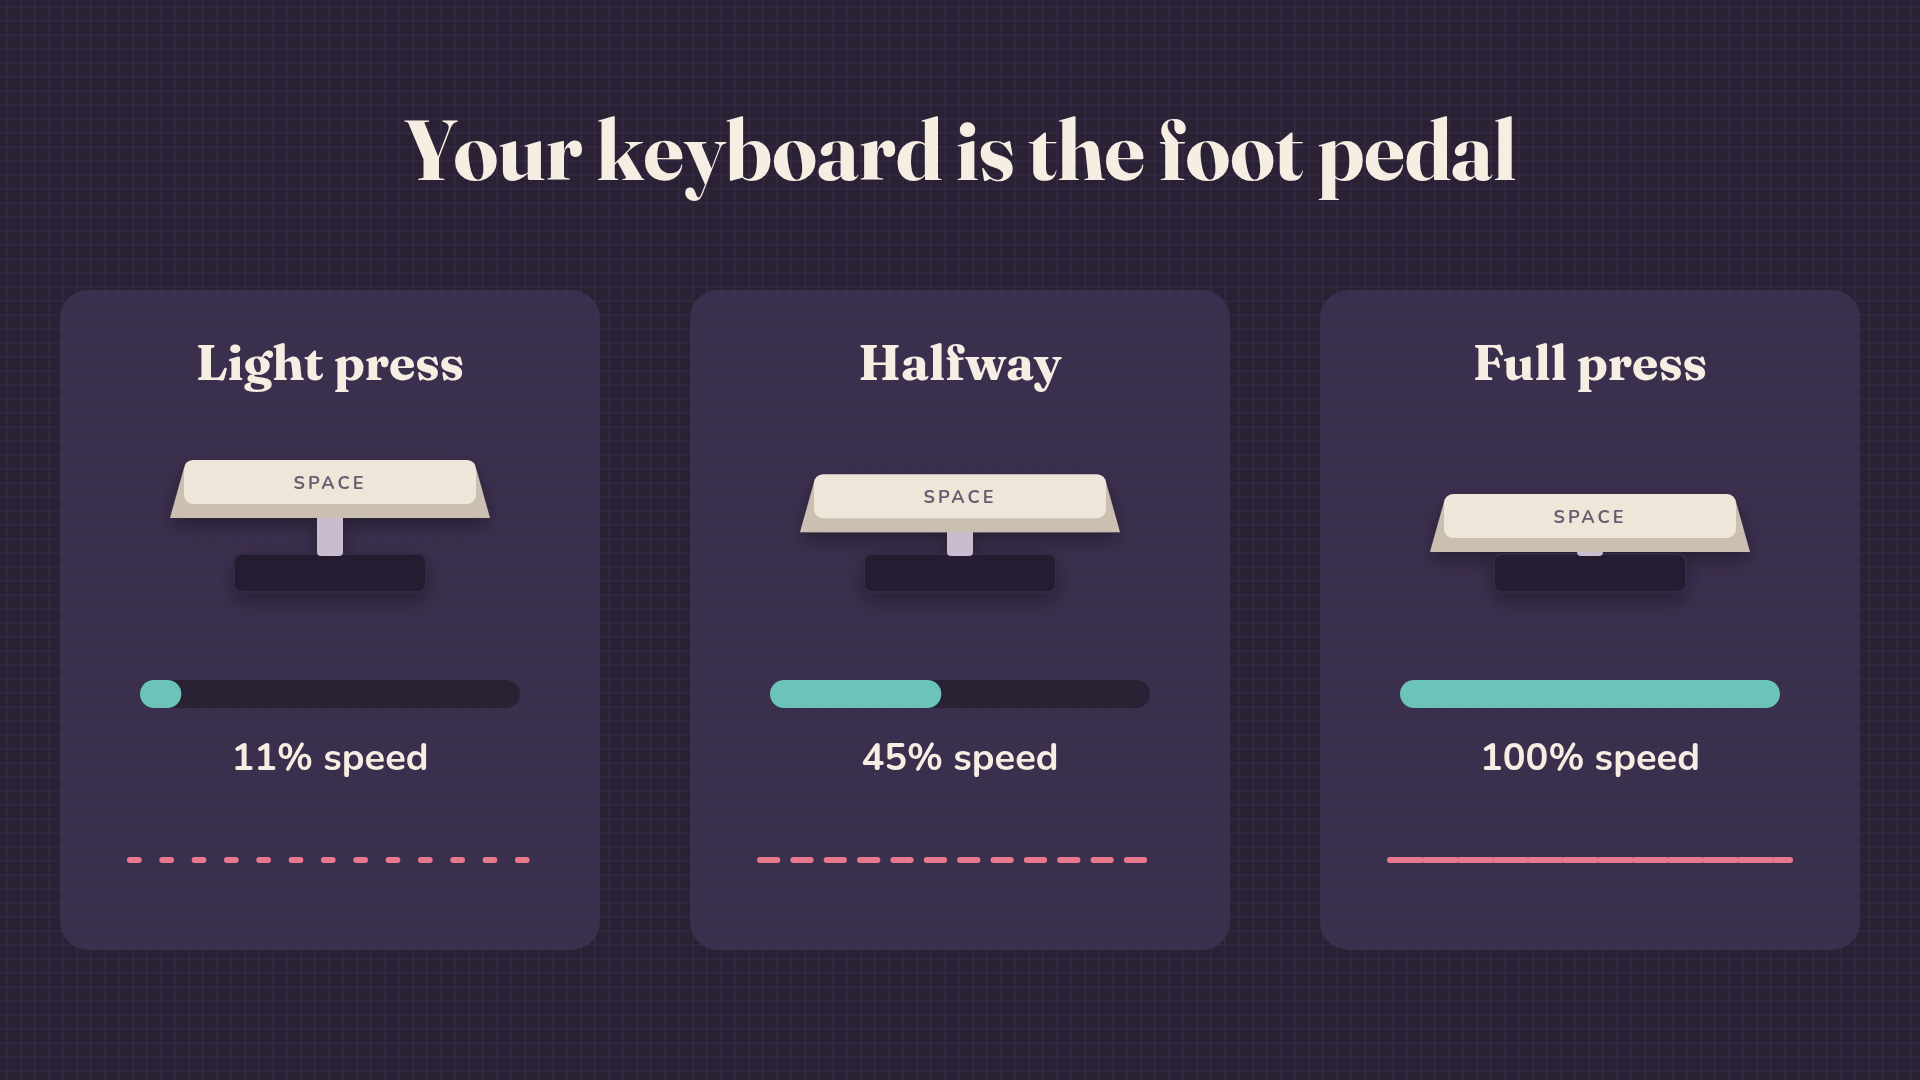
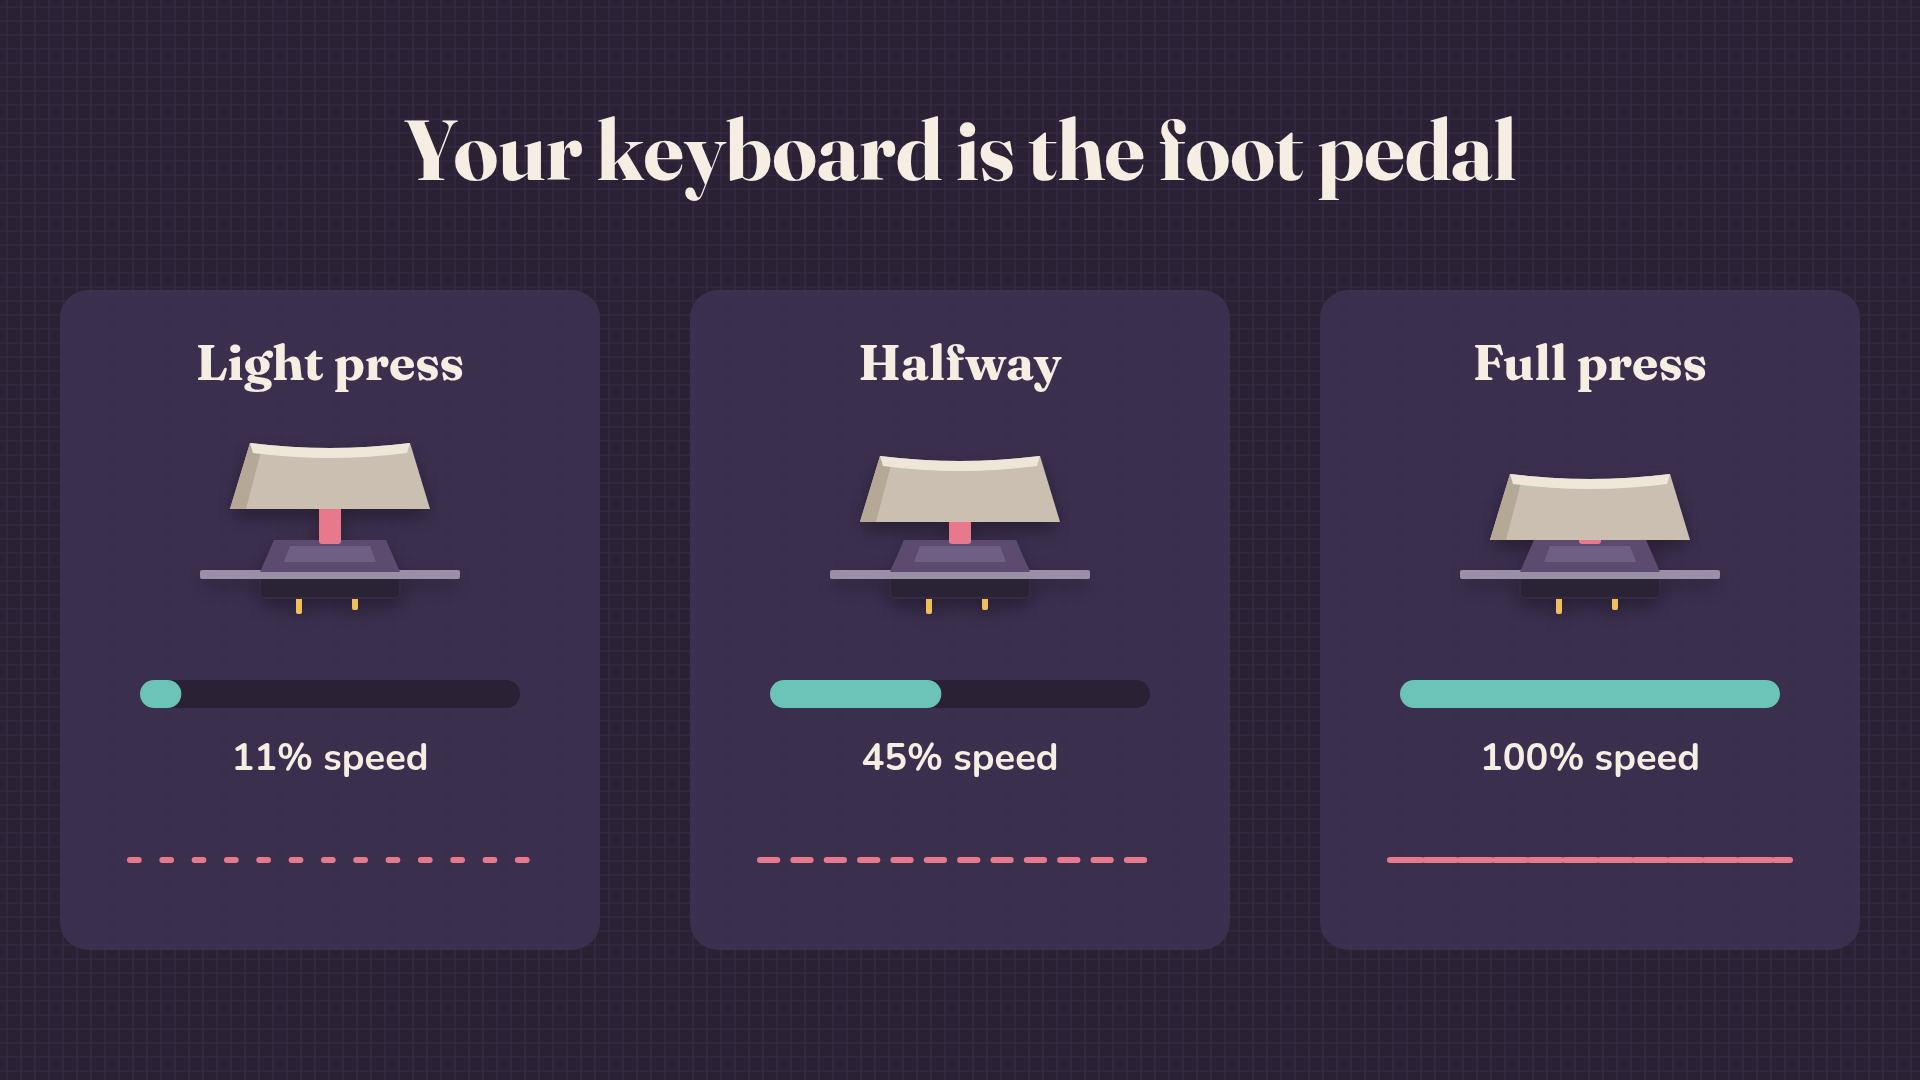
Draw a keycap and switch in the images, trim text, drop install image

Changed region(s): [[0.4062, 0.4278, 0.5938, 0.55], [0.0938, 0.3972, 0.25, 0.55], [0.75, 0.4278, 0.9062, 0.55]]

diff --git a/docs/media/make_media.py b/docs/media/make_media.py
@@ -61,30 +61,41 @@ def stitches(x0, y0, x1, y1, color=ROSE, dash=(18, 12), width=5):
             f'stroke-linecap="round" stroke-dasharray="{dash[0]} {dash[1]}"/>')
 
 
-def keycap(x, y, w, depth_px, label="SPACE"):
-    """Side-on keycap on a stem above a switch housing; depth_px (0..44) pushes the cap down."""
-    cap_y = y + depth_px
-    housing_y = y + 104
+TRAVEL_PX = 40  # drawn key travel for TRAVEL_MM
+
+
+def switch_key(cx, top_y, depth_px):
+    """Side view of a 1u keycap on a mechanical switch in a plate, centred on cx.
+
+    top_y is the top of the keycap at rest; depth_px (0..TRAVEL_PX) pushes the cap and stem down.
+    The drawing is 190px tall.
+    """
+    cap_y = top_y + depth_px
+    hy = top_y + 70 + TRAVEL_PX  # top of the switch housing
     return f"""
   <g filter="url(#shadow)">
-    <rect x="{x + w*0.2}" y="{housing_y}" width="{w*0.6}" height="38" rx="8" fill="#251d30" stroke="{BG2}" stroke-width="2"/>
-    <rect x="{x + w/2 - 13}" y="{cap_y + 50}" width="26" height="{housing_y - cap_y - 48}" rx="4" fill="{MUTED}"/>
-    <path d="M{x} {cap_y + 58} L{x + 14} {cap_y + 8} H{x + w - 14} L{x + w} {cap_y + 58} Z" fill="{KEY_SIDE}"/>
-    <rect x="{x + 14}" y="{cap_y}" width="{w - 28}" height="44" rx="9" fill="{KEY}"/>
-    <text x="{x + w/2}" y="{cap_y + 29}" text-anchor="middle" class="body" style="fill:#6b5d70;font-size:18px;letter-spacing:3px">{label}</text>
+    <rect x="{cx - 34}" y="{hy + 54}" width="6" height="20" rx="2" fill="{MUSTARD}"/>
+    <rect x="{cx + 22}" y="{hy + 54}" width="6" height="16" rx="2" fill="{MUSTARD}"/>
+    <rect x="{cx - 70}" y="{hy + 30}" width="140" height="28" rx="5" fill="#2a2236" stroke="{BG2}" stroke-width="2"/>
+    <rect x="{cx - 130}" y="{hy + 30}" width="260" height="9" rx="2" fill="#9a8fa6"/>
+    <path d="M{cx - 56} {hy} H{cx + 56} L{cx + 70} {hy + 32} H{cx - 70} Z" fill="#5b4c6e"/>
+    <path d="M{cx - 40} {hy + 6} H{cx + 40} L{cx + 46} {hy + 22} H{cx - 46} Z" fill="#6f5f84"/>
+    <rect x="{cx - 11}" y="{cap_y + 62}" width="22" height="{hy - cap_y - 58}" rx="3" fill="{ROSE}"/>
+    <path d="M{cx - 100} {cap_y + 70} L{cx - 80} {cap_y + 4} Q{cx} {cap_y + 14} {cx + 80} {cap_y + 4} L{cx + 100} {cap_y + 70} Z" fill="{KEY_SIDE}"/>
+    <path d="M{cx - 100} {cap_y + 70} L{cx - 80} {cap_y + 4} L{cx - 68} {cap_y + 9} L{cx - 84} {cap_y + 70} Z" fill="#b5a897"/>
+    <path d="M{cx - 80} {cap_y + 4} Q{cx} {cap_y + 14} {cx + 80} {cap_y + 4} L{cx + 77} {cap_y + 14} Q{cx} {cap_y + 24} {cx - 77} {cap_y + 14} Z" fill="{KEY}"/>
   </g>"""
 
 
 def header():
     w, h = 1300, 372
+    key_cx = 1000  # centred over the slow-to-fast stitches (760..1240)
     body = f"""
-  <text x="70" y="150" class="title" style="font-size:86px">Analog Sewing</text>
-  <text x="74" y="208" class="sub" style="font-size:30px;fill:{CREAM}">Press lightly to sew slowly.</text>
-  <text x="74" y="250" class="sub" style="font-size:30px;fill:{CREAM}">Press harder to sew faster.</text>
-  <text x="74" y="306" class="sub" style="font-size:21px">A Dressmaker mod for Wooting analog keyboards</text>
-  {keycap(790, 112, 330, 22)}
-  <path d="M955 46 V92" stroke="{MUSTARD}" stroke-width="6" stroke-linecap="round"/>
-  <path d="M937 76 L955 96 L973 76" stroke="{MUSTARD}" stroke-width="6" fill="none" stroke-linecap="round" stroke-linejoin="round"/>
+  <text x="70" y="182" class="title" style="font-size:92px">Analog Sewing</text>
+  <text x="76" y="236" class="sub" style="font-size:26px">A Dressmaker mod for Wooting analog keyboards</text>
+  <path d="M{key_cx} 18 V62" stroke="{MUSTARD}" stroke-width="6" stroke-linecap="round"/>
+  <path d="M{key_cx - 18} 46 L{key_cx} 66 L{key_cx + 18} 46" stroke="{MUSTARD}" stroke-width="6" fill="none" stroke-linecap="round" stroke-linejoin="round"/>
+  {switch_key(key_cx, 82, 12)}
   {stitches(760, 318, 870, 318, dash=(6, 22))}
   {stitches(890, 318, 1010, 318, dash=(12, 14))}
   {stitches(1030, 318, 1240, 318, dash=(26, 6))}
@@ -100,13 +111,13 @@ def pedal():
     for i, (name, mm) in enumerate([("Light press", 0.9), ("Halfway", 2.2), ("Full press", 4.0)]):
         cx = 330 + i * 630
         pct = speed(mm)
-        depth_px = mm / TRAVEL_MM * 44
+        depth_px = mm / TRAVEL_MM * TRAVEL_PX
         gauge_w = 380
         dash = (6 + pct * 0.25, max(26 - pct * 0.22, 4))
         panels.append(f"""
   <rect x="{cx - 270}" y="290" width="540" height="660" rx="28" fill="{CARD}" opacity="0.92"/>
   <text x="{cx}" y="380" text-anchor="middle" class="title" style="font-size:50px">{name}</text>
-  {keycap(cx - 160, 450, 320, depth_px)}
+  {switch_key(cx, 430, depth_px)}
   <rect x="{cx - gauge_w/2}" y="680" width="{gauge_w}" height="28" rx="14" fill="{BG}"/>
   <rect x="{cx - gauge_w/2}" y="680" width="{gauge_w * pct / 100:.1f}" height="28" rx="14" fill="{TEAL}"/>
   <text x="{cx}" y="770" text-anchor="middle" class="body" style="font-size:38px">{pct:.0f}% speed</text>
@@ -146,12 +157,11 @@ def curve():
 
     lx, ly = gx + 40, gy + 30  # legend, in the empty upper-left of the plot
 
-    def setting(row, key, value, desc, color):
-        y = ly + 70 + row * 82
+    def setting(row, key, value, color):
+        y = ly + 82 + row * 56
         return f"""
   <circle cx="{lx + 34}" cy="{y - 9}" r="11" fill="{color}"/>
-  <text x="{lx + 60}" y="{y}" class="mono" style="font-size:29px">{key} = <tspan style="fill:{color}">{value}</tspan></text>
-  <text x="{lx + 60}" y="{y + 34}" class="sub" style="font-size:24px">{desc}</text>"""
+  <text x="{lx + 60}" y="{y}" class="mono" style="font-size:29px">{key} = <tspan style="fill:{color}">{value}</tspan></text>"""
 
     body = f"""
   <rect x="40" y="30" width="1840" height="1020" rx="32" fill="{CARD}" opacity="0.92"/>
@@ -168,43 +178,13 @@ def curve():
   <line x1="{px(FULL_MM)}" y1="{gy}" x2="{px(FULL_MM)}" y2="{gy + gh}" stroke="{MUSTARD}" stroke-width="3" stroke-dasharray="8 8"/>
   <circle cx="{px(START_MM)}" cy="{py(MIN_PCT)}" r="13" fill="{ROSE}"/>
   <circle cx="{px(FULL_MM)}" cy="{py(MAX_PCT)}" r="13" fill="{MUSTARD}"/>
-  <rect x="{lx}" y="{ly}" width="560" height="460" rx="22" fill="{BG}" opacity="0.92" stroke="{BG2}" stroke-width="2"/>
+  <rect x="{lx}" y="{ly}" width="500" height="340" rx="22" fill="{BG}" opacity="0.92" stroke="{BG2}" stroke-width="2"/>
   <text x="{lx + 34}" y="{ly + 2 + 28}" class="sub" style="font-size:22px;letter-spacing:2px">DEFAULT SETTINGS</text>
-  {setting(0, "StartDepthMm", START_MM, "Press this far to start sewing", ROSE)}
-  {setting(1, "FullSpeedDepthMm", FULL_MM, "Press this far for full speed", MUSTARD)}
-  {setting(2, "MinSpeedPercent", MIN_PCT, "Speed when sewing starts", ROSE)}
-  {setting(3, "MaxSpeedPercent", MAX_PCT, "Top speed", MUSTARD)}
-  {setting(4, "Curve", CURVE, "Higher = finer control when slow", TEAL)}
-"""
-    return svg(w, h, body)
-
-
-def install():
-    w, h = 1920, 1080
-    steps = [
-        ("1", "Install BepInEx 5", ["Extract BepInEx 5 (x64) into", "the Dressmaker folder, next", "to Dressmaker.exe"], ROSE),
-        ("2", "Add Analog Sewing", ["Extract this mod into the", "same folder. Wooting's", "Analog SDK is included."], MUSTARD),
-        ("3", "Sew!", ["Launch the game and press", "Space gently, then harder.", "No other setup needed."], TEAL),
-    ]
-    cards = []
-    for i, (num, title, lines, color) in enumerate(steps):
-        x = 150 + i * 560
-        text = "".join(
-            f'<text x="{x + 50}" y="{620 + j * 50}" class="sub" style="font-size:31px;fill:{CREAM}">{line}</text>'
-            for j, line in enumerate(lines))
-        cards.append(f"""
-  <rect x="{x}" y="300" width="500" height="520" rx="28" fill="{CARD}" opacity="0.92"/>
-  <circle cx="{x + 110}" cy="420" r="62" fill="{color}"/>
-  <text x="{x + 110}" y="446" text-anchor="middle" class="title" style="font-size:72px;fill:{BG}">{num}</text>
-  <text x="{x + 50}" y="555" class="title" style="font-size:46px">{title}</text>
-  {text}""")
-    body = f"""
-  <text x="960" y="160" text-anchor="middle" class="title" style="font-size:80px">Install in 3 steps</text>
-  <text x="960" y="228" text-anchor="middle" class="sub" style="font-size:32px">Works on Windows and on Linux / Steam Deck through Proton</text>
-  {''.join(cards)}
-  <rect x="380" y="880" width="1160" height="110" rx="22" fill="{BG}" stroke="{BG2}" stroke-width="2"/>
-  <text x="960" y="924" text-anchor="middle" class="sub" style="font-size:26px">Linux / Steam Deck launch options:</text>
-  <text x="960" y="968" text-anchor="middle" class="mono" style="font-size:30px;fill:{MUSTARD}">WINEDLLOVERRIDES="winhttp=n,b" %command%</text>
+  {setting(0, "StartDepthMm", START_MM, ROSE)}
+  {setting(1, "FullSpeedDepthMm", FULL_MM, MUSTARD)}
+  {setting(2, "MinSpeedPercent", MIN_PCT, ROSE)}
+  {setting(3, "MaxSpeedPercent", MAX_PCT, MUSTARD)}
+  {setting(4, "Curve", CURVE, TEAL)}
 """
     return svg(w, h, body)
 
@@ -213,7 +193,6 @@ IMAGES = {
     "header": (header, 1300, 372),
     "1-foot-pedal": (pedal, 1920, 1080),
     "2-tune-the-feel": (curve, 1920, 1080),
-    "3-install": (install, 1920, 1080),
 }
 
 
